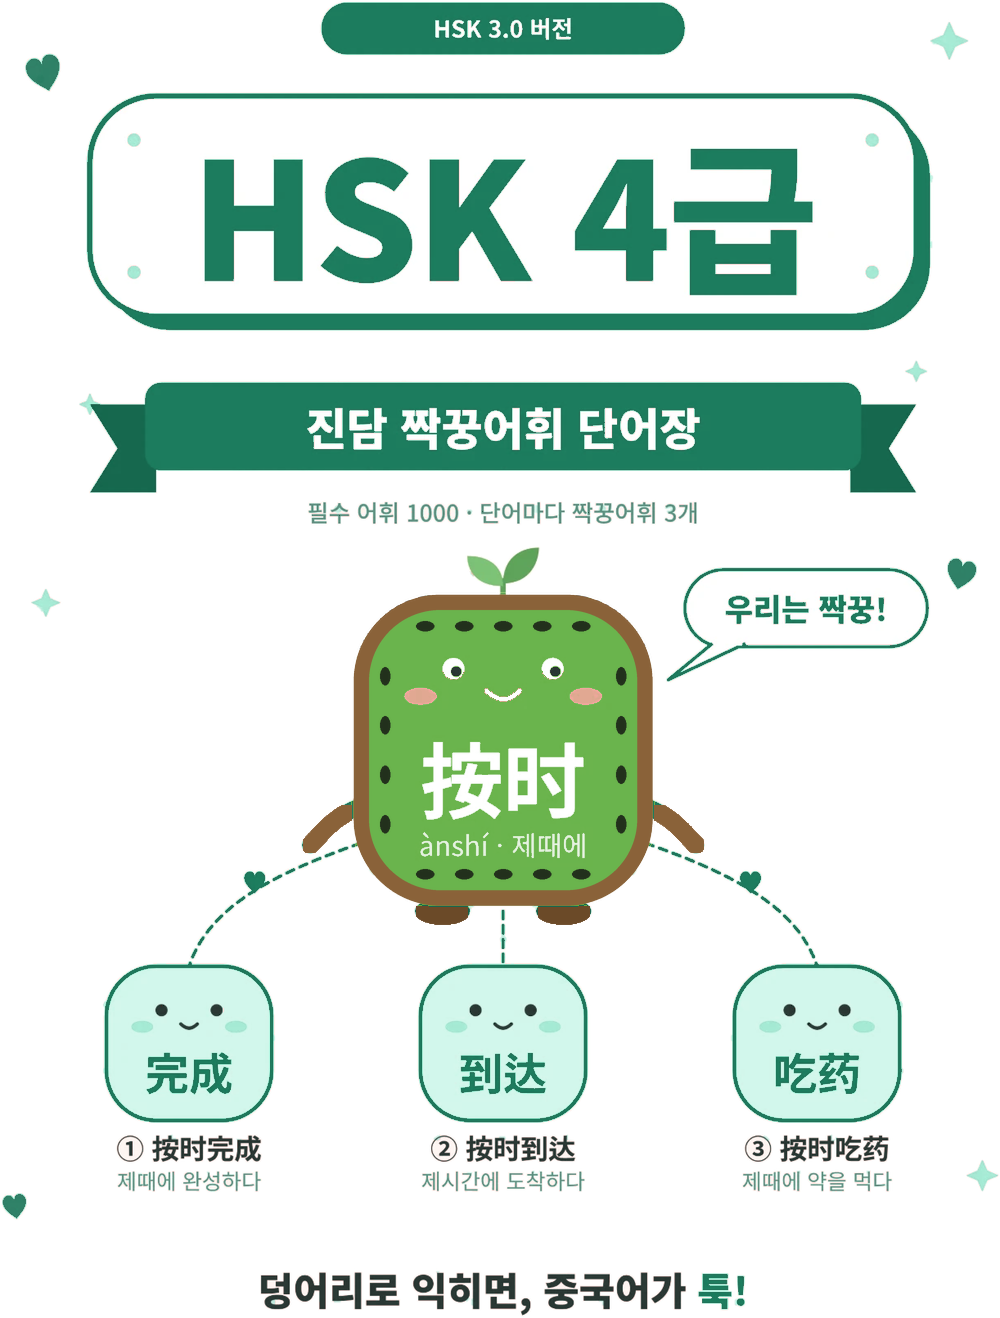
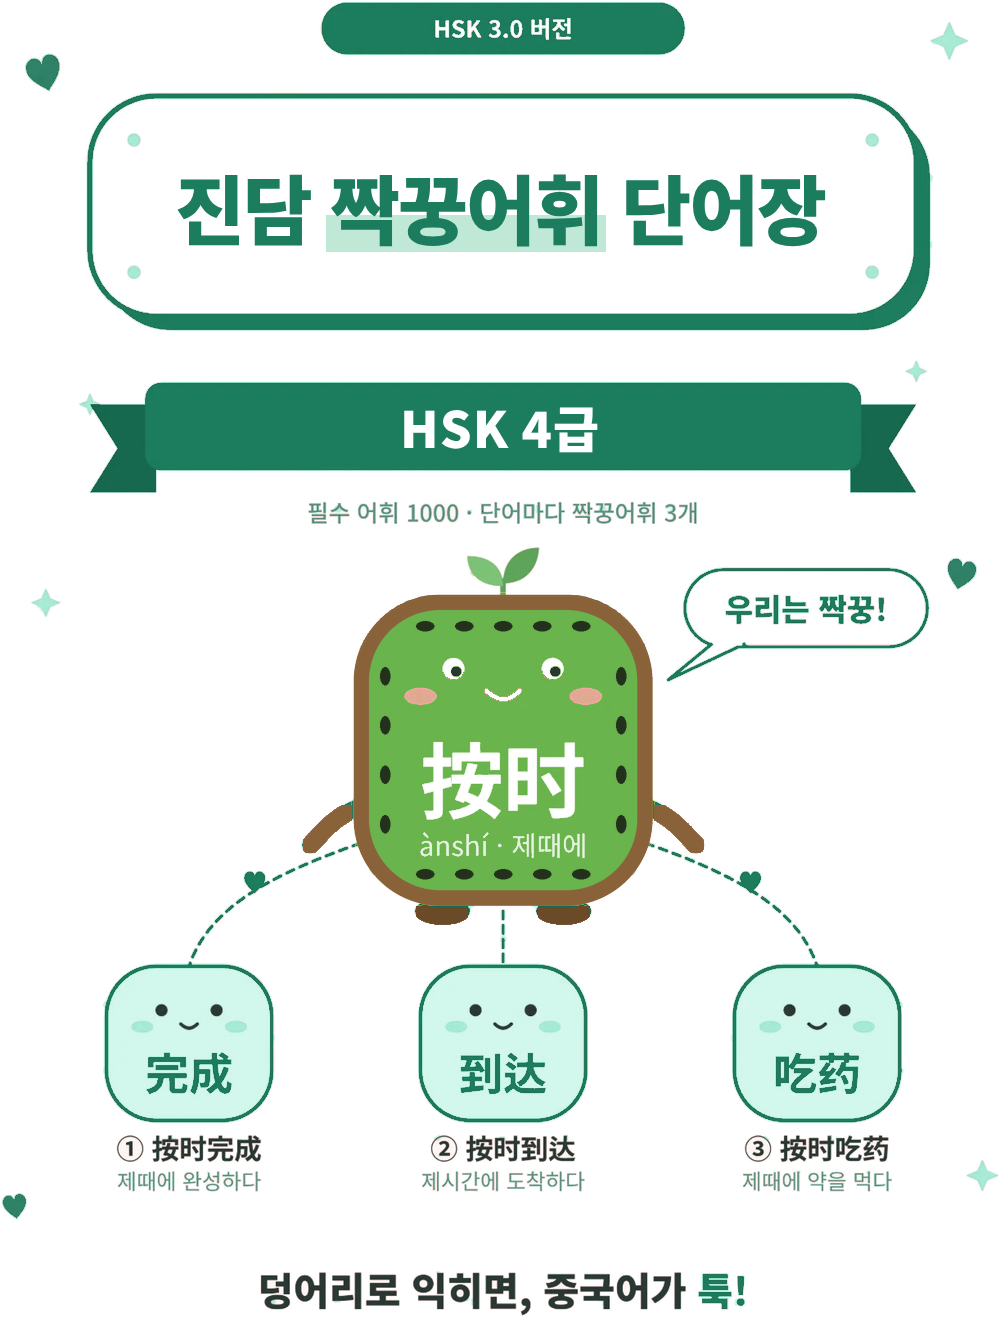
Cover title: emphasize 진담 짝꿍어휘 단어장, HSK 4급 on the ribbon
Claude-Session: https://claude.ai/code/session_012XfskR2cCV67urXsN9mb9y

Changed region(s): [[0.186, 0.0933, 0.837, 0.2489], [0.31, 0.3111, 0.713, 0.3422]]

diff --git a/index.html b/index.html
@@ -38,7 +38,7 @@
     <div class="home-inner">
       <div class="cover-wrap">
         <!-- 진담중국어 단어장 표지 원본 그림 (배경 점무늬만 투명하게 뺀 것) -->
-        <img class="cover" src="img/cover.png" alt="HSK 3.0 버전 HSK 4급 진담 짝꿍어휘 단어장 — 필수 어휘 1000 · 단어마다 짝꿍어휘 3개. 덩어리로 익히면, 중국어가 툭!" draggable="false">
+        <img class="cover" src="img/cover.png" alt="HSK 3.0 버전 진담 짝꿍어휘 단어장 · HSK 4급 — 필수 어휘 1000 · 단어마다 짝꿍어휘 3개. 덩어리로 익히면, 중국어가 툭!" draggable="false">
       </div>
 
       <div class="home-actions">
